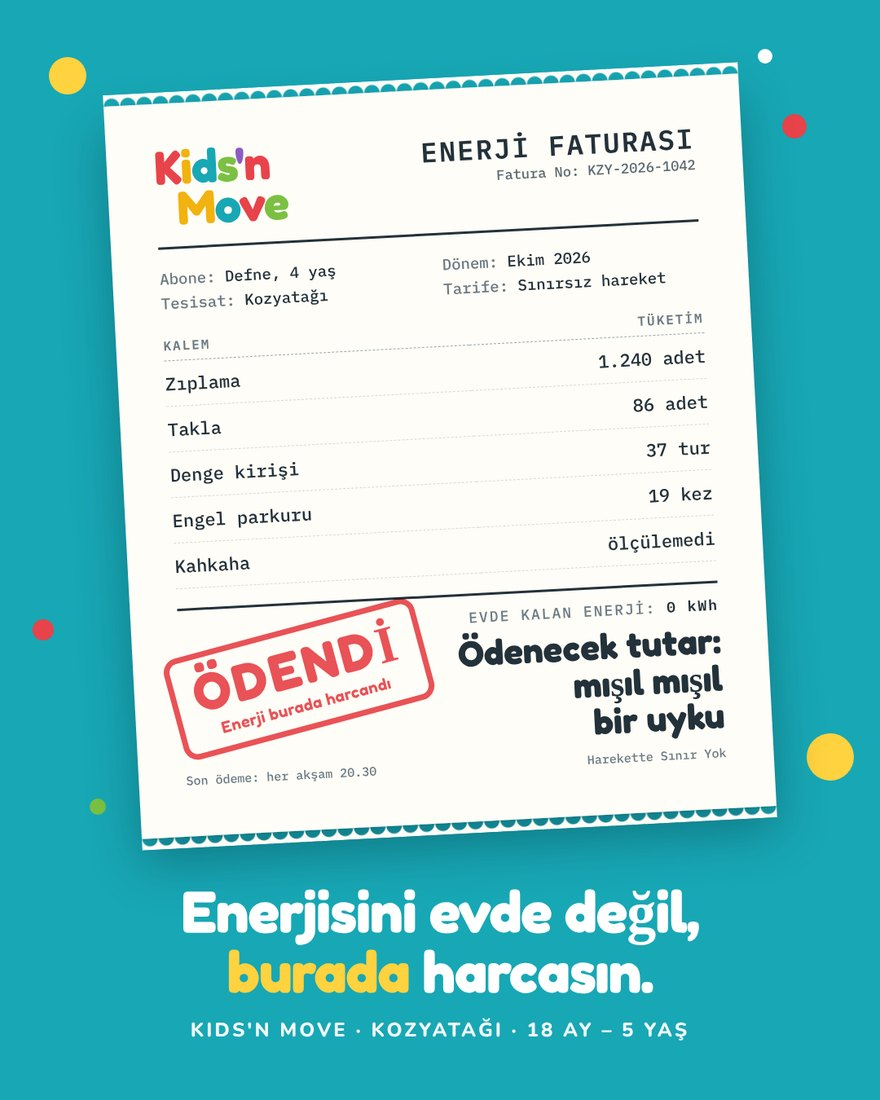
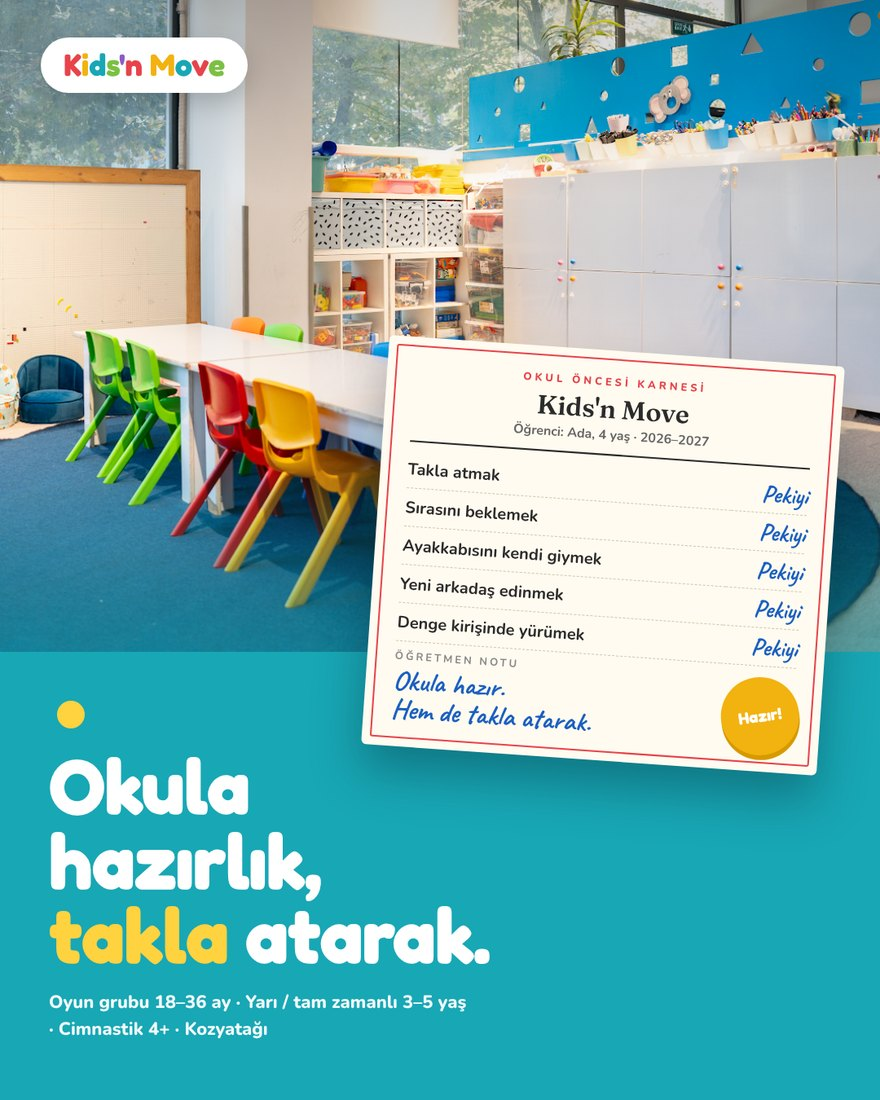
Vakalar yenilendi: markaların kendi fotoğraflarıyla altı yeni iş
Claude-Session: https://claude.ai/code/session_01BKzsWLjaf8MYVzkn7j6h9L

diff --git a/index.html b/index.html
@@ -370,6 +370,7 @@ dialog .alt{color:#fff;margin-top:12px;font-size:15px}
 
 </head>
 <body>
+
 <div class="bant">
   <svg class="halka" viewBox="0 0 200 200" aria-hidden="true"><g fill="none" stroke="#FFFFFF" stroke-width="5"><circle cx="100" cy="100" r="22"/><circle cx="100" cy="100" r="48"/><circle cx="100" cy="100" r="74"/><circle cx="100" cy="100" r="97"/></g></svg>
   <div class="ic">
@@ -397,7 +398,7 @@ dialog .alt{color:#fff;margin-top:12px;font-size:15px}
 
 <div class="markalar"><div class="ic"><span class="etiket">Birlikte çalıştığımız markalar</span><ul><li>Keyfhane</li><li>Ms Neilos Coffees</li><li>Tiesto Coffee</li><li>Hacı Caferoğlu</li><li>Otomer</li><li>Uğur Hazır Yemek</li><li>Tomara Catering</li><li>Armet Ambalaj</li><li>Alex Gece Dönercisi</li><li>Kids'n Move</li><li>Demlesene</li></ul></div></div>
 <main class="ic">
-  <section id="fark">
+  <section lang="tr" id="fark">
     <div class="bas">
       <div class="etiket">Aynı brif, iki ajans</div>
       <h2>Farkı görmek için <i>kaydırın.</i></h2>
@@ -421,99 +422,99 @@ dialog .alt{color:#fff;margin-top:12px;font-size:15px}
   </section>
 
 
-  <section id="vakalar">
+  <section lang="tr" id="vakalar">
     <div class="bas">
       <div class="etiket">Vaka çalışmaları</div>
       <h2>Her markanın <i>kendi</i> dili var.</h2>
-      <p>Önce markayı inceliyoruz: rengini, semtini, müşterisini, gününü. Sonra o markadan başkasına ait olamayacak tek bir fikir buluyoruz. Fikir bir posta değil, dükkândan pakete her yere taşınıyor.</p>
+      <p>Önce markayı inceliyoruz: rengini, semtini, müşterisini, gününü. Sonra markanın kendi fotoğraflarıyla, ondan başkasına ait olamayacak tek bir fikir kuruyoruz. Fikir bir posta değil, dükkândan pakete her yere taşınıyor.</p>
     </div>
     <article class="vaka" style="--vb:#18A7B5;--vf:#fff;--va:#FFD23F;--vm:rgba(255,255,255,.88)">
       <span class="v-no" aria-hidden="true">01</span>
       <div class="v-tel"><div class="v-ekran">
         <div class="v-ust"><i></i>kidsnmove<span>•••</span></div>
-        <button type="button" data-buyut="is/kidsnmove.jpg" data-alt="Kids'n Move için enerji faturası: zıplama 1.240 adet, takla 86 adet, evde kalan enerji 0 kWh, ödenecek tutar mışıl mışıl bir uyku"><img src="is/kidsnmove.jpg" alt="Kids'n Move için enerji faturası: zıplama 1.240 adet, takla 86 adet, evde kalan enerji 0 kWh, ödenecek tutar mışıl mışıl bir uyku" width="880" height="1100" loading="lazy"></button>
+        <button type="button" data-buyut="is/kidsnmove.jpg" data-alt="Kids'n Move sınıfının gerçek fotoğrafı üzerinde okul öncesi karnesi: takla atmak, sırasını beklemek, ayakkabısını kendi giymek, hepsi pekiyi. Öğretmen notu: okula hazır, hem de takla atarak."><img src="is/kidsnmove.jpg" alt="Kids'n Move sınıfının gerçek fotoğrafı üzerinde okul öncesi karnesi: takla atmak, sırasını beklemek, ayakkabısını kendi giymek, hepsi pekiyi. Öğretmen notu: okula hazır, hem de takla atarak." width="880" height="1100" loading="lazy"></button>
         <div class="v-alt"><svg viewBox="0 0 24 24"><path d="M12 21s-7-4.4-9.3-9A5.2 5.2 0 0 1 12 6.3 5.2 5.2 0 0 1 21.3 12C19 16.6 12 21 12 21z"/></svg><svg viewBox="0 0 24 24"><path d="M21 12a8.5 8.5 0 0 1-12.6 7.4L3 21l1.6-5.2A8.5 8.5 0 1 1 21 12z"/></svg><svg viewBox="0 0 24 24"><path d="M22 3 2 10.5l8 3.5 3.5 8L22 3z"/></svg><b>Kaydet</b></div>
       </div></div>
       <div class="v-metin">
-        <div class="v-marka">Kids'n Move · Kozyatağı · çocuk hareket ve cimnastik okulu</div>
-        <h3>Enerjisini evde değil, <em>burada</em> harcasın.</h3>
-        <dl class="v-dl"><div><dt>Durum</dt><dd>Ebeveyn okul seçerken güven ve gelişim arıyor. Çocuk tarafında tek bir gerçek var: o enerji bir yerde harcanacak.</dd></div><div><dt>Fikir</dt><dd>Ev faturası diliyle bir enerji faturası: zıplama, takla, denge kirişi kalem kalem. Evde kalan enerji 0 kWh, ödenecek tutar mışıl mışıl bir uyku. Markanın renkli logosu ve “Harekette Sınır Yok” sözüyle.</dd></div><div><dt>Neden işe yarar</dt><dd>Her ebeveynin yaşadığı akşam saatini tek bakışta anlatıyor. Veli gruplarında elden ele gönderilecek türden; 2026’da Instagram’ın en çok ödüllendirdiği şey de bu.</dd></div></dl>
-        <div class="v-tas" aria-label="Bu fikrin taşındığı yerler"><span>Instagram postu</span><span>Dönem sonu veli karnesi</span><span>Kayıt broşürü</span><span>Girişte “fatura gişesi” panosu</span><span>Aylık fatura Reels’i</span></div>
+        <div class="v-marka">Kids'n Move · Kozyatağı · okul öncesi ve hareket okulu</div>
+        <h3>Okula hazırlık, <em>takla atarak.</em></h3>
+        <dl class="v-dl"><div><dt>Durum</dt><dd>Veli okul öncesi seçerken tek şey soruyor: çocuğum okula hazır olacak mı? Kids'n Move'un cevabı hareket: oyun grubu, yarım ve tam gün sınıflar, cimnastik.</dd></div><div><dt>Fikir</dt><dd>Markanın kendi sınıfının fotoğrafı üstüne bir okul öncesi karnesi. Takla atmak, sırasını beklemek, ayakkabısını kendi giymek, yeni arkadaş edinmek; hepsi “Pekiyi”. Öğretmen notu: “Okula hazır. Hem de takla atarak.”</dd></div><div><dt>Neden işe yarar</dt><dd>Hareketi ebeveynin asıl derdine, okul hazırlığına bağlıyor. Karne herkesin tanıdığı bir belge; veli grubunda paylaşılır, kayıt döneminde aynı karne velinin eline gerçek kâğıt olarak verilir.</dd></div></dl>
+        <div class="v-tas" aria-label="Bu fikrin taşındığı yerler"><span>Kayıt dönemi postu</span><span>Dönem sonu gerçek veli karnesi</span><span>Kayıt broşürü</span><span>Okul girişi panosu</span><span>Veli WhatsApp duyurusu</span></div>
       </div>
     </article>
     <article class="vaka ters" style="--vb:#0E1B3D;--vf:#fff;--va:#FF4A4A;--vm:rgba(255,255,255,.75)">
       <span class="v-no" aria-hidden="true">02</span>
       <div class="v-tel"><div class="v-ekran">
         <div class="v-ust"><i></i>tiestocoffees<span>•••</span></div>
-        <button type="button" data-buyut="is/tiesto.jpg" data-alt="Tiesto Coffee için plak kapağı: Kahvenin en güzel hali, tracklist Espresso Original Mix, Taş Değirmen Slow Grind"><img src="is/tiesto.jpg" alt="Tiesto Coffee için plak kapağı: Kahvenin en güzel hali, tracklist Espresso Original Mix, Taş Değirmen Slow Grind" width="880" height="1100" loading="lazy"></button>
+        <button type="button" data-buyut="is/tiesto.jpg" data-alt="Tiesto Coffee'nin gece çekilmiş gerçek cephesi ve parmak izi logosu; önünde bir telefonda Tiesto albümü, mekândan gerçek fotoğraflarla dolu. Başlık: Beylikdüzü'nün galerisinde parmak izimiz var."><img src="is/tiesto.jpg" alt="Tiesto Coffee'nin gece çekilmiş gerçek cephesi ve parmak izi logosu; önünde bir telefonda Tiesto albümü, mekândan gerçek fotoğraflarla dolu. Başlık: Beylikdüzü'nün galerisinde parmak izimiz var." width="880" height="1100" loading="lazy"></button>
         <div class="v-alt"><svg viewBox="0 0 24 24"><path d="M12 21s-7-4.4-9.3-9A5.2 5.2 0 0 1 12 6.3 5.2 5.2 0 0 1 21.3 12C19 16.6 12 21 12 21z"/></svg><svg viewBox="0 0 24 24"><path d="M21 12a8.5 8.5 0 0 1-12.6 7.4L3 21l1.6-5.2A8.5 8.5 0 1 1 21 12z"/></svg><svg viewBox="0 0 24 24"><path d="M22 3 2 10.5l8 3.5 3.5 8L22 3z"/></svg><b>Kaydet</b></div>
       </div></div>
       <div class="v-metin">
-        <div class="v-marka">Tiesto Coffee · Beylikdüzü</div>
-        <h3>Bu sabahın <em>setlisti</em> hazır.</h3>
-        <dl class="v-dl"><div><dt>Durum</dt><dd>Markanın adı dünyaca ünlü bir DJ’i çağrıştırıyor. Saklamak yerine sahneye çıkarmak gerekiyordu.</dd></div><div><dt>Fikir</dt><dd>Kahve menüsü bir plak kapağına döndü: Espresso (Original Mix), Taş Değirmen (Slow Grind), Şömine Başı (Extended). Kapak markanın lacivert-kırmızısı ve parmak izi deseniyle, “Live at Beylikdüzü”.</dd></div><div><dt>Neden işe yarar</dt><dd>İsimle gelen merak bir gülümsemeye dönüşüyor, menü ezberlenir hale geliyor. Marka kendi tuhaflığını sahipleniyor.</dd></div></dl>
-        <div class="v-tas" aria-label="Bu fikrin taşındığı yerler"><span>Tracklist menü kartı</span><span>Bardakta Side A / Side B</span><span>Haftalık setlist story serisi</span><span>Mağazada plak duvarı</span></div>
+        <div class="v-marka">Tiesto Coffee · Beylikdüzü · “Fingerprint on Quality”</div>
+        <h3>Beylikdüzü’nün galerisinde <em>parmak izimiz</em> var.</h3>
+        <dl class="v-dl"><div><dt>Durum</dt><dd>Tiesto'nun logosu bir parmak izi, sözü “Fingerprint on Quality”. Mekân öyle bir yer ki misafir kahvesini içmeden önce fotoğrafını çekiyor.</dd></div><div><dt>Fikir</dt><dd>Markanın kendi cephesi, gece ışıkları ve parmak izi tabelasıyla. Önünde bir telefon galerisi: “Tiesto” albümü, mekândan gerçek karelerle dolu. “Bir fotoğraf daha kaydedildi.”</dd></div><div><dt>Neden işe yarar</dt><dd>Logodaki parmak izini müşterinin davranışına bağlıyor: her bardak, her tabak, bir galeriye geçiyor. Müşterinin çektiği fotoğrafı reklama, reklamı da yeni fotoğraf çekme davetine çeviriyor.</dd></div></dl>
+        <div class="v-tas" aria-label="Bu fikrin taşındığı yerler"><span>Instagram postu</span><span>“Galerinden Tiesto” paylaşım serisi</span><span>Bardakta parmak izi baskısı</span><span>Masada fotoğraf köşesi kartı</span></div>
       </div>
     </article>
     <article class="vaka" style="--vb:#E6F5F4;--vf:#16232B;--va:#1C9C97;--vm:#3E525B">
       <span class="v-no" aria-hidden="true">03</span>
       <div class="v-tel"><div class="v-ekran">
         <div class="v-ust"><i></i>msneiloscoffees<span>•••</span></div>
-        <button type="button" data-buyut="is/neilos.jpg" data-alt="Ms Neilos için istasyon tabelası: Espresso hattı E1, Soğuk hat C2, Tatlı hattı T3, ilk sefer 09.00 son sefer 02.00"><img src="is/neilos.jpg" alt="Ms Neilos için istasyon tabelası: Espresso hattı E1, Soğuk hat C2, Tatlı hattı T3, ilk sefer 09.00 son sefer 02.00" width="880" height="1100" loading="lazy"></button>
+        <button type="button" data-buyut="is/neilos.jpg" data-alt="Ms Neilos'un turkuaz baskılı bardağında gerçek bir buzlu latte fotoğrafı ve yanında müze etiketi: Eser no 01, Iced Latte, ziyaret saatleri her gün 09.00–02.00. Başlık: Pendik'in kalıcı koleksiyonu."><img src="is/neilos.jpg" alt="Ms Neilos'un turkuaz baskılı bardağında gerçek bir buzlu latte fotoğrafı ve yanında müze etiketi: Eser no 01, Iced Latte, ziyaret saatleri her gün 09.00–02.00. Başlık: Pendik'in kalıcı koleksiyonu." width="880" height="1100" loading="lazy"></button>
         <div class="v-alt"><svg viewBox="0 0 24 24"><path d="M12 21s-7-4.4-9.3-9A5.2 5.2 0 0 1 12 6.3 5.2 5.2 0 0 1 21.3 12C19 16.6 12 21 12 21z"/></svg><svg viewBox="0 0 24 24"><path d="M21 12a8.5 8.5 0 0 1-12.6 7.4L3 21l1.6-5.2A8.5 8.5 0 1 1 21 12z"/></svg><svg viewBox="0 0 24 24"><path d="M22 3 2 10.5l8 3.5 3.5 8L22 3z"/></svg><b>Kaydet</b></div>
       </div></div>
       <div class="v-metin">
         <div class="v-marka">Ms Neilos Coffees · Pendik · 09.00–02.00</div>
-        <h3>Pendik’te herkes bir yerde <em>aktarma</em> yapar.</h3>
-        <dl class="v-dl"><div><dt>Durum</dt><dd>Pendik bir aktarma semti: Marmaray, metro, otobüs. Herkes bir yerden bir yere geçiyor.</dd></div><div><dt>Fikir</dt><dd>Kafeyi bir istasyon gibi tabelaladık: Espresso hattı E1, Soğuk hat C2, Tatlı hattı T3. İlk sefer 09.00, son sefer 02.00. Turkuaz “N” bir metro durağı işaretine dönüştü.</dd></div><div><dt>Neden işe yarar</dt><dd>Semtin günlük hayatına oturuyor; yol tarifi bile reklama dönüşüyor. Gece 2’ye kadar açık olmak, “son sefer” diye söylenince akılda kalıyor.</dd></div></dl>
-        <div class="v-tas" aria-label="Bu fikrin taşındığı yerler"><span>Cam giydirme istasyon tabelası</span><span>Bardakta hat rozetleri</span><span>Neilos kart: 10 sefer 1 bedava</span><span>Durak çıkışı yön afişi</span></div>
+        <h3>Pendik’in <em>kalıcı koleksiyonu.</em></h3>
+        <dl class="v-dl"><div><dt>Durum</dt><dd>Üçüncü nesil kahve dükkânı; turkuaz baskılı bardakları ve özenli sunumu kendi başına bir vitrin. Ama özen, fotoğrafta “bir kafe daha” gibi kalabiliyor.</dd></div><div><dt>Fikir</dt><dd>Her içeceği bir müze eseri gibi sergiledik. Gerçek buzlu latte fotoğrafının yanında bir müze etiketi: “Eser no. 01, Iced Latte. Espresso, soğuk süt ve buz; turkuaz baskılı bardak üzerine.” Ziyaret saatleri 09.00–02.00, salon Erol Kaya Caddesi. “Bu eserde dokunmak ve tatmak serbesttir.”</dd></div><div><dt>Neden işe yarar</dt><dd>Üçüncü nesil kahvenin özenini tek bakışta anlatıyor. Her yeni içecek koleksiyona yeni bir eser olarak katılır; seri kendiliğinden büyür, müdavim “hepsini gördüm” der.</dd></div></dl>
+        <div class="v-tas" aria-label="Bu fikrin taşındığı yerler"><span>Eser serisi postları</span><span>Kasada müze etiketi menü</span><span>Bardakta eser numarası</span><span>“Yeni eser” story duyurusu</span></div>
       </div>
     </article>
     <article class="vaka ters" style="--vb:#F4EEE4;--vf:#2A1A12;--va:#D7262D;--vm:#6B5444">
       <span class="v-no" aria-hidden="true">04</span>
       <div class="v-tel"><div class="v-ekran">
         <div class="v-ust"><i></i>demlesene<span>•••</span></div>
-        <button type="button" data-buyut="is/demlesene.jpg" data-alt="Demlesene için kahve pasaportu: Guatemala, El Salvador, Kolombiya ve Brezilya vize damgaları"><img src="is/demlesene.jpg" alt="Demlesene için kahve pasaportu: Guatemala, El Salvador, Kolombiya ve Brezilya vize damgaları" width="880" height="1100" loading="lazy"></button>
+        <button type="button" data-buyut="is/demlesene.jpg" data-alt="Demlesene'nin gerçek Espresso No.1–No.4 paketleri, boy çizgili bir teşhis duvarında yan yana. Başlık: Dün gece uykunu kaçıran hangisiydi?"><img src="is/demlesene.jpg" alt="Demlesene'nin gerçek Espresso No.1–No.4 paketleri, boy çizgili bir teşhis duvarında yan yana. Başlık: Dün gece uykunu kaçıran hangisiydi?" width="880" height="1100" loading="lazy"></button>
         <div class="v-alt"><svg viewBox="0 0 24 24"><path d="M12 21s-7-4.4-9.3-9A5.2 5.2 0 0 1 12 6.3 5.2 5.2 0 0 1 21.3 12C19 16.6 12 21 12 21z"/></svg><svg viewBox="0 0 24 24"><path d="M21 12a8.5 8.5 0 0 1-12.6 7.4L3 21l1.6-5.2A8.5 8.5 0 1 1 21 12z"/></svg><svg viewBox="0 0 24 24"><path d="M22 3 2 10.5l8 3.5 3.5 8L22 3z"/></svg><b>Kaydet</b></div>
       </div></div>
       <div class="v-metin">
         <div class="v-marka">Demlesene.com · online nitelikli kahve</div>
-        <h3>Dört ülke, tek <em>kapı</em>: senin kapın.</h3>
-        <dl class="v-dl"><div><dt>Durum</dt><dd>Dört farklı ülkeden tek kökenli kahveler var, ama internette hepsi aynı beyaz paket gibi görünüyor.</dd></div><div><dt>Fikir</dt><dd>Bir kahve pasaportu: her köken bir vize damgası. Guatemala Jaguar, El Salvador La Majada, Kolombiya Supremo, Brezilya Doce Diamantina. En altta kırmızı damga: vize gerekmez, demlesene.com, 7/24.</dd></div><div><dt>Neden işe yarar</dt><dd>Tadım notlarını macera diline çeviriyor ve “hepsini toplamalıyım” isteği doğuruyor. Tek paket yerine dörtlü set satıyor.</dd></div></dl>
-        <div class="v-tas" aria-label="Bu fikrin taşındığı yerler"><span>Paketle gelen pasaport kitapçığı</span><span>Her siparişte yeni damga</span><span>Dört ülke tadım seti</span><span>“Yeni vize geldi” e-postası</span></div>
+        <h3>Dün gece uykunu <em>kaçıran</em> hangisiydi?</h3>
+        <dl class="v-dl"><div><dt>Durum</dt><dd>Dört espresso harmanı var, internette dördü de birbirine benzeyen paketler gibi duruyor. Müşteri farkı göremeyince en ucuzunu seçiyor.</dd></div><div><dt>Fikir</dt><dd>Markanın gerçek paketleri, polis teşhis sırasına dizildi: Espresso No.1'den No.4'e, arkada boy çizgileri, kırmızı etikette “demlesene.com · teşhis”. Soru net: dün gece uykunu kaçıran hangisiydi?</dd></div><div><dt>Neden işe yarar</dt><dd>Kafeinin bilinen etkisini esprili bir suça çeviriyor; paketler kendiliğinden karakter kazanıyor. Yorumlarda herkes “sanığını” seçer, dört harmanı tek tek tanıtmak için hazır bir seri doğar.</dd></div></dl>
+        <div class="v-tas" aria-label="Bu fikrin taşındığı yerler"><span>Instagram postu</span><span>Her harmana bir “sabıka kaydı” postu</span><span>Dörtlü deneme seti</span><span>Siparişle gelen teşhis kartı</span></div>
       </div>
     </article>
     <article class="vaka" style="--vb:#0F1F3A;--vf:#fff;--va:#C9A15B;--vm:rgba(255,255,255,.74)">
       <span class="v-no" aria-hidden="true">05</span>
       <div class="v-tel"><div class="v-ekran">
         <div class="v-ust"><i></i>tomarasofrasi_catering<span>•••</span></div>
-        <button type="button" data-buyut="is/tomara.jpg" data-alt="Tomara Catering için ofis takvimi: toplantılara katılım düşük, öğle yemeğine 148 kişiden 148 kişi kabul demiş"><img src="is/tomara.jpg" alt="Tomara Catering için ofis takvimi: toplantılara katılım düşük, öğle yemeğine 148 kişiden 148 kişi kabul demiş" width="880" height="1100" loading="lazy"></button>
+        <button type="button" data-buyut="is/tomara.jpg" data-alt="Tomara Catering'in gerçek yemek tepsisi fotoğrafı ve üzerinde bir takvim daveti: Öğle yemeği, 12.00–13.00, yemekhane, mercimek çorbası, etli patates, şehriyeli pilav. 148 kişiden 148 kişi kabul etti."><img src="is/tomara.jpg" alt="Tomara Catering'in gerçek yemek tepsisi fotoğrafı ve üzerinde bir takvim daveti: Öğle yemeği, 12.00–13.00, yemekhane, mercimek çorbası, etli patates, şehriyeli pilav. 148 kişiden 148 kişi kabul etti." width="880" height="1100" loading="lazy"></button>
         <div class="v-alt"><svg viewBox="0 0 24 24"><path d="M12 21s-7-4.4-9.3-9A5.2 5.2 0 0 1 12 6.3 5.2 5.2 0 0 1 21.3 12C19 16.6 12 21 12 21z"/></svg><svg viewBox="0 0 24 24"><path d="M21 12a8.5 8.5 0 0 1-12.6 7.4L3 21l1.6-5.2A8.5 8.5 0 1 1 21 12z"/></svg><svg viewBox="0 0 24 24"><path d="M22 3 2 10.5l8 3.5 3.5 8L22 3z"/></svg><b>Kaydet</b></div>
       </div></div>
       <div class="v-metin">
         <div class="v-marka">Tomara Catering · Tuzla · 2015’ten beri kurumsal yemek</div>
         <h3>Herkesin kabul ettiği <em>tek toplantı.</em></h3>
-        <dl class="v-dl"><div><dt>Durum</dt><dd>Kurumsal yemekte kararı İK ve satın alma veriyor. Onların dünyası toplantı takvimi.</dd></div><div><dt>Fikir</dt><dd>Bir ofis takvimi: bütün toplantılarda katılım düşük, öğle yemeğine 148 kişiden 148’i “kabul” demiş. Tomara’nın lacivert-altın kimliği ve servis kapağı simgesiyle.</dd></div><div><dt>Neden işe yarar</dt><dd>Alıcıya kendi ekranından konuşuyor. İK yöneticilerinin LinkedIn’de paylaşacağı, gülümseterek ikna eden türden bir B2B işi.</dd></div></dl>
-        <div class="v-tas" aria-label="Bu fikrin taşındığı yerler"><span>LinkedIn kampanyası</span><span>Teklif dosyası kapağı</span><span>Yemekhane panosu</span><span>Takvim daveti biçiminde e-posta</span></div>
+        <dl class="v-dl"><div><dt>Durum</dt><dd>Kurumsal yemekte kararı İK ve satın alma veriyor. Onların günü toplantı davetleriyle geçiyor, çoğuna da isteksizce katılıyorlar.</dd></div><div><dt>Fikir</dt><dd>Tomara'nın gerçek yemek tepsisi fotoğrafının üstünde bir takvim daveti: “Öğle yemeği · 12.00–13.00 · Yemekhane. Mercimek çorbası, etli patates, şehriyeli pilav.” Altında: ✓ Kabul edildi, 148 / 148 kişi.</dd></div><div><dt>Neden işe yarar</dt><dd>Alıcıya kendi ekranının diliyle konuşuyor ve yemeği gösteriyor. İK yöneticisinin LinkedIn'de paylaşacağı türden bir B2B işi; gülümsetirken teklif istemeye götürüyor.</dd></div></dl>
+        <div class="v-tas" aria-label="Bu fikrin taşındığı yerler"><span>LinkedIn kampanyası</span><span>Teklif dosyası kapağı</span><span>Takvim daveti biçiminde e-posta</span><span>Yemekhane menü panosu</span></div>
       </div>
     </article>
     <article class="vaka ters" style="--vb:#0B0A12;--vf:#FFF6EA;--va:#FFB347;--vm:rgba(255,246,234,.74)">
       <span class="v-no" aria-hidden="true">06</span>
       <div class="v-tel"><div class="v-ekran">
         <div class="v-ust"><i></i>alexgecedonercisi<span>•••</span></div>
-        <button type="button" data-buyut="is/alex.jpg" data-alt="Alex Gece Dönercisi için nöbetçi eczane levhası biçiminde post: Bu gece nöbetçi dönerci, nöbet saati 17.00–02.00"><img src="is/alex.jpg" alt="Alex Gece Dönercisi için nöbetçi eczane levhası biçiminde post: Bu gece nöbetçi dönerci, nöbet saati 17.00–02.00" width="880" height="1100" loading="lazy"></button>
+        <button type="button" data-buyut="is/alex.jpg" data-alt="Alex Gece Dönercisi'nin gerçek döner fotoğrafı gece gökyüzünde ay gibi parlıyor. Altında döner evreleri: dolunay, şişkin ay, yarım ay, hilal. Başlık: Bu gece gökyüzünde dolunay var."><img src="is/alex.jpg" alt="Alex Gece Dönercisi'nin gerçek döner fotoğrafı gece gökyüzünde ay gibi parlıyor. Altında döner evreleri: dolunay, şişkin ay, yarım ay, hilal. Başlık: Bu gece gökyüzünde dolunay var." width="880" height="1100" loading="lazy"></button>
         <div class="v-alt"><svg viewBox="0 0 24 24"><path d="M12 21s-7-4.4-9.3-9A5.2 5.2 0 0 1 12 6.3 5.2 5.2 0 0 1 21.3 12C19 16.6 12 21 12 21z"/></svg><svg viewBox="0 0 24 24"><path d="M21 12a8.5 8.5 0 0 1-12.6 7.4L3 21l1.6-5.2A8.5 8.5 0 1 1 21 12z"/></svg><svg viewBox="0 0 24 24"><path d="M22 3 2 10.5l8 3.5 3.5 8L22 3z"/></svg><b>Kaydet</b></div>
       </div></div>
       <div class="v-metin">
-        <div class="v-marka">Alex Gece Dönercisi · Kartal Topselvi · 02.00’ye kadar</div>
-        <h3>Gece acıkanların <em>nöbetçisi.</em></h3>
-        <dl class="v-dl"><div><dt>Durum</dt><dd>Gece döner arayan, aklına ilk geleni seçiyor. Mesele en iyi olmak değil, akla ilk gelen olmak.</dd></div><div><dt>Fikir</dt><dd>Herkesin tanıdığı nöbetçi eczane levhası: “Bu gece nöbetçi dönerci.” Nöbet saati 17.00–02.00, ikram: çay.</dd></div><div><dt>Neden işe yarar</dt><dd>Tanıdık işaret tek saniyede okunuyor. “Nöbetçi” kelimesi gece açık olmayı bir hizmete, bir güvenceye çeviriyor.</dd></div></dl>
-        <div class="v-tas" aria-label="Bu fikrin taşındığı yerler"><span>Dükkân önü ışıklı levha</span><span>Trendyol Go mağaza görseli</span><span>Gece 23.00 story’si</span><span>Paket üstü sticker</span></div>
+        <div class="v-marka">Alex Gece Dönercisi · Kartal</div>
+        <h3>Bu gece gökyüzünde <em>dolunay</em> var.</h3>
+        <dl class="v-dl"><div><dt>Durum</dt><dd>Adı üstünde gece dönercisi. Gece acıkan kişi aklına ilk geleni seçer; Alex'in tek işi o anda akla gelmek.</dd></div><div><dt>Fikir</dt><dd>Markanın kendi döner fotoğrafı, gece gökyüzünde dolunay gibi parlıyor. Altında bir ay takvimi gibi döner evreleri: dolunay (ocak yeni yandı), şişkin ay, yarım ay, hilal (son dilimler). Tabelanın sarısı neon ışığa döndü.</dd></div><div><dt>Neden işe yarar</dt><dd>Geceyi ve döneri tek görüntüde birleştiriyor. “Hilale kalmadan gelin” cümlesi aciliyeti esprisiyle kuruyor; her gece aynı seriden yeni bir story çıkar: “Şu an yarım ay.”</dd></div></dl>
+        <div class="v-tas" aria-label="Bu fikrin taşındığı yerler"><span>Instagram postu</span><span>Gece boyu “döner evresi” story'leri</span><span>Dükkân camında neon</span><span>Paket servis uygulaması görseli</span></div>
       </div>
     </article>
   </section>
 
-  <section id="isler">
+  <section lang="tr" id="isler">
     <div class="bas">
       <div class="etiket">Daha fazla iş</div>
       <h2>Her işin <i>tek</i> bir fikri var.</h2>
@@ -529,11 +530,11 @@ dialog .alt{color:#fff;margin-top:12px;font-size:15px}
     </div>
     <div class="isler" id="isler-liste">
       <article class="is" data-t="post">
-        <button class="medya" type="button" data-buyut="is/rapor.jpg" data-alt="Keyfhane · İstirahat Raporu"><img src="is/rapor.jpg" alt="Keyfhane istirahat raporu postu" width="880" height="1100" loading="lazy"><span class="tur">Kafe · Post</span></button>
+        <button class="medya" type="button" data-buyut="is/rapor.jpg" data-alt="Alex Gece Dönercisi'nin gerçek döner fotoğrafı gece gökyüzünde ay gibi parlıyor. Altında döner evreleri: dolunay, şişkin ay, yarım ay, hilal. Başlık: Bu gece gökyüzünde dolunay var."><img src="is/rapor.jpg" alt="Keyfhane istirahat raporu postu" width="880" height="1100" loading="lazy"><span class="tur">Kafe · Post</span></button>
         <h3>İstirahat Raporu</h3><p>Keyfhane için. Teşhis: akut keyifsizlik. Tedavi: iki demli çay, bir dilim tatlı.</p>
       </article>
       <article class="is" data-t="teklif">
-        <button class="medya" type="button" data-buyut="is/caferoglu.jpg" data-alt="Hatır Senedi"><img src="is/caferoglu.jpg" alt="Senet biçiminde kurukahveci postu: Hatır senedi, vade kırk yıl" width="880" height="1100" loading="lazy"><span class="tur t">Kurukahveci</span></button>
+        <button class="medya" type="button" data-buyut="is/caferoglu.jpg" data-alt="Alex Gece Dönercisi'nin gerçek döner fotoğrafı gece gökyüzünde ay gibi parlıyor. Altında döner evreleri: dolunay, şişkin ay, yarım ay, hilal. Başlık: Bu gece gökyüzünde dolunay var."><img src="is/caferoglu.jpg" alt="Senet biçiminde kurukahveci postu: Hatır senedi, vade kırk yıl" width="880" height="1100" loading="lazy"><span class="tur t">Kurukahveci</span></button>
         <h3>Hatır Senedi</h3><p>Kurukahveci Hacı Caferoğlu için. Bir fincan dibek kahvesinin kırk yıl hatırı, senede bağlandı.</p>
       </article>
       <article class="is" data-t="reels">
@@ -541,38 +542,38 @@ dialog .alt{color:#fff;margin-top:12px;font-size:15px}
         <h3>Mesai Bitti</h3><p>Keyfhane için 8 saniyelik Reels. Saat 18.01, üç bildirim. Hangisine cevap vereceğin belli.</p>
       </article>
       <article class="is" data-t="konsept">
-        <button class="medya" type="button" data-buyut="is/berber.jpg" data-alt="Konsept · Usta Makas"><img src="is/berber.jpg" alt="Sıra numaratörü biçiminde berber postu: Sıradaki sen" width="880" height="1100" loading="lazy"><span class="tur k">Konsept · Berber</span></button>
+        <button class="medya" type="button" data-buyut="is/berber.jpg" data-alt="Alex Gece Dönercisi'nin gerçek döner fotoğrafı gece gökyüzünde ay gibi parlıyor. Altında döner evreleri: dolunay, şişkin ay, yarım ay, hilal. Başlık: Bu gece gökyüzünde dolunay var."><img src="is/berber.jpg" alt="Sıra numaratörü biçiminde berber postu: Sıradaki sen" width="880" height="1100" loading="lazy"><span class="tur k">Konsept · Berber</span></button>
         <h3>Sıradaki: Sen</h3><p>Berber için sıra numaratörü. Randevulu müşteri hiç beklemez, tek mesaj bu.</p>
       </article>
       <article class="is" data-t="teklif">
-        <button class="medya" type="button" data-buyut="is/ugur.jpg" data-alt="Dikkat: verim artışı"><img src="is/ugur.jpg" alt="İş güvenliği levhası biçiminde toplu yemek postu: Dikkat, öğle yemeğinden sonra verim artışı" width="880" height="1100" loading="lazy"><span class="tur t">Toplu yemek</span></button>
+        <button class="medya" type="button" data-buyut="is/ugur.jpg" data-alt="Alex Gece Dönercisi'nin gerçek döner fotoğrafı gece gökyüzünde ay gibi parlıyor. Altında döner evreleri: dolunay, şişkin ay, yarım ay, hilal. Başlık: Bu gece gökyüzünde dolunay var."><img src="is/ugur.jpg" alt="İş güvenliği levhası biçiminde toplu yemek postu: Dikkat, öğle yemeğinden sonra verim artışı" width="880" height="1100" loading="lazy"><span class="tur t">Toplu yemek</span></button>
         <h3>Dikkat: verim artışı</h3><p>Fabrikalara toplu yemek veren Uğur Hazır Yemek için. İş güvenliği levhası diliyle: öğle yemeğinden sonra verim artışı yaşanabilir.</p>
       </article>
       <article class="is" data-t="teklif">
-        <button class="medya" type="button" data-buyut="is/otomer.jpg" data-alt="34 ARA 000"><img src="is/otomer.jpg" alt="Plaka biçiminde galericiler sitesi postu: 34 ARA 000, aramayı burada bitir" width="880" height="1100" loading="lazy"><span class="tur t">Galericiler sitesi</span></button>
+        <button class="medya" type="button" data-buyut="is/otomer.jpg" data-alt="Alex Gece Dönercisi'nin gerçek döner fotoğrafı gece gökyüzünde ay gibi parlıyor. Altında döner evreleri: dolunay, şişkin ay, yarım ay, hilal. Başlık: Bu gece gökyüzünde dolunay var."><img src="is/otomer.jpg" alt="Plaka biçiminde galericiler sitesi postu: 34 ARA 000, aramayı burada bitir" width="880" height="1100" loading="lazy"><span class="tur t">Galericiler sitesi</span></button>
         <h3>34 ARA 000</h3><p>Sancaktepe'deki Otomer Galericiler Sitesi için. Plakada tek kelime: ara. Altında tek cümle: aramayı burada bitir.</p>
       </article>
       <article class="is" data-t="konsept">
-        <button class="medya" type="button" data-buyut="is/firin.jpg" data-alt="Konsept · Fırın Sabah"><img src="is/firin.jpg" alt="Kargo takip ekranı biçiminde fırın postu: Simidin yola çıktı" width="880" height="1100" loading="lazy"><span class="tur k">Konsept · Fırın</span></button>
+        <button class="medya" type="button" data-buyut="is/firin.jpg" data-alt="Alex Gece Dönercisi'nin gerçek döner fotoğrafı gece gökyüzünde ay gibi parlıyor. Altında döner evreleri: dolunay, şişkin ay, yarım ay, hilal. Başlık: Bu gece gökyüzünde dolunay var."><img src="is/firin.jpg" alt="Kargo takip ekranı biçiminde fırın postu: Simidin yola çıktı" width="880" height="1100" loading="lazy"><span class="tur k">Konsept · Fırın</span></button>
         <h3>Simidin yola çıktı</h3><p>Kargo takip ekranı, ama paket sıcak simit. Hamurdan tezgâha her adım saatiyle.</p>
       </article>
       <article class="is" data-t="teklif">
-        <button class="medya" type="button" data-buyut="is/armet.jpg" data-alt="Bu taraf yukarı. Markan da."><img src="is/armet.jpg" alt="Koli üstü işaretleri biçiminde ambalaj postu: Bu taraf yukarı, markan da" width="880" height="1100" loading="lazy"><span class="tur t">Ambalaj</span></button>
+        <button class="medya" type="button" data-buyut="is/armet.jpg" data-alt="Alex Gece Dönercisi'nin gerçek döner fotoğrafı gece gökyüzünde ay gibi parlıyor. Altında döner evreleri: dolunay, şişkin ay, yarım ay, hilal. Başlık: Bu gece gökyüzünde dolunay var."><img src="is/armet.jpg" alt="Koli üstü işaretleri biçiminde ambalaj postu: Bu taraf yukarı, markan da" width="880" height="1100" loading="lazy"><span class="tur t">Ambalaj</span></button>
         <h3>Bu taraf yukarı. Markan da.</h3><p>Armet Ambalaj için. Kolinin üstündeki işaretler marka mesajına dönüştü.</p>
       </article>
       <article class="is" data-t="konsept">
-        <button class="medya" type="button" data-buyut="is/butik.jpg" data-alt="Konsept · Askıda"><img src="is/butik.jpg" alt="Hata penceresi biçiminde butik postu: Dolapta hata tespit edildi" width="880" height="1100" loading="lazy"><span class="tur k">Konsept · Butik</span></button>
+        <button class="medya" type="button" data-buyut="is/butik.jpg" data-alt="Alex Gece Dönercisi'nin gerçek döner fotoğrafı gece gökyüzünde ay gibi parlıyor. Altında döner evreleri: dolunay, şişkin ay, yarım ay, hilal. Başlık: Bu gece gökyüzünde dolunay var."><img src="is/butik.jpg" alt="Hata penceresi biçiminde butik postu: Dolapta hata tespit edildi" width="880" height="1100" loading="lazy"><span class="tur k">Konsept · Butik</span></button>
         <h3>Dolapta hata tespit edildi</h3><p>"Giyecek hiçbir şeyim yok" hatası. Çözüm: eksik tek parça, güncelleme mağazada.</p>
       </article>
       <article class="is genis" data-t="baski">
-        <button class="medya" type="button" data-buyut="is/vitrin.jpg" data-alt="Keyfhane · Dükkân giydirme"><img src="is/vitrin.jpg" alt="Keyfhane için tabela, branda tente ve cam giydirmeli dükkân cephesi" width="1600" height="1000" loading="lazy"><span class="tur">Baskı · Dükkân giydirme</span></button>
+        <button class="medya" type="button" data-buyut="is/vitrin.jpg" data-alt="Alex Gece Dönercisi'nin gerçek döner fotoğrafı gece gökyüzünde ay gibi parlıyor. Altında döner evreleri: dolunay, şişkin ay, yarım ay, hilal. Başlık: Bu gece gökyüzünde dolunay var."><img src="is/vitrin.jpg" alt="Keyfhane için tabela, branda tente ve cam giydirmeli dükkân cephesi" width="1600" height="1000" loading="lazy"><span class="tur">Baskı · Dükkân giydirme</span></button>
         <h3>Postlardaki fikir, vitrinde</h3><p>Keyfhane için tabela, branda tente, cam giydirme ve folyo bant. Instagram'daki "Raporunu al, gel." cümlesi sokakta da aynı.</p>
       </article>
     </div>
     <p class="kunye">"Konsept" etiketli işler kurgusal markalar içindir. Fırın Sabah, Usta Makas ve Askıda gerçek işletmeler değildir.</p>
   </section>
 
-  <section id="biz">
+  <section lang="tr" id="biz">
     <div class="sozluk">
       <div class="sz-sol">
         <div class="etiket" style="color:var(--muted)">Biz kimiz</div>
@@ -609,7 +610,7 @@ dialog .alt{color:#fff;margin-top:12px;font-size:15px}
     </div>
   </section>
 
-  <section id="hizmetler">
+  <section lang="tr" id="hizmetler">
     <div class="bas">
       <div class="etiket">Hizmetler</div>
       <h2>Bir ajansın yaptığı <i>her şey.</i></h2>
@@ -654,7 +655,7 @@ dialog .alt{color:#fff;margin-top:12px;font-size:15px}
     </details>
   </section>
 
-  <section id="baski">
+  <section lang="tr" id="baski">
     <div class="bas">
       <div class="etiket">Baskı ve uygulama</div>
       <h2>Ekranda kalmıyor, <i>sokağa çıkıyor.</i></h2>
@@ -673,7 +674,7 @@ dialog .alt{color:#fff;margin-top:12px;font-size:15px}
     </div>
   </section>
 
-  <section id="fikir-makinesi">
+  <section lang="tr" id="fikir-makinesi">
     <div class="bas">
       <div class="etiket">Fikir makinesi</div>
       <h2>Sektörünüzü seçin, <i>fikir alın.</i></h2>
@@ -690,7 +691,7 @@ dialog .alt{color:#fff;margin-top:12px;font-size:15px}
     </div>
   </section>
 
-  <section id="kontrol">
+  <section lang="tr" id="kontrol">
     <div class="bas">
       <div class="etiket">Ücretsiz kontrol</div>
       <h2>Instagram'ınız <i>kaç puan?</i></h2>
@@ -707,7 +708,7 @@ dialog .alt{color:#fff;margin-top:12px;font-size:15px}
     </div>
   </section>
 
-  <section id="sozumuz">
+  <section lang="tr" id="sozumuz">
     <div class="bas">
       <div class="etiket">Sözümüz</div>
       <h2>Bizimle çalışırken <i>içiniz rahat.</i></h2>
@@ -722,7 +723,7 @@ dialog .alt{color:#fff;margin-top:12px;font-size:15px}
     </div>
   </section>
 
-  <section id="paketler">
+  <section lang="tr" id="paketler">
     <div class="bas">
       <div class="etiket">Paketler</div>
       <h2>İhtiyacınız kadar, <i>fazlası değil.</i></h2>
@@ -749,7 +750,7 @@ dialog .alt{color:#fff;margin-top:12px;font-size:15px}
     </div>
   </section>
 
-  <section id="notlar">
+  <section lang="tr" id="notlar">
     <div class="bas">
       <div class="etiket">Velvele notları · Ekim 2026</div>
       <h2>Bu yıl ne değişti, <i>biz ne yapıyoruz.</i></h2>
@@ -771,7 +772,7 @@ dialog .alt{color:#fff;margin-top:12px;font-size:15px}
     </div>
   </section>
 
-  <section id="sss">
+  <section lang="tr" id="sss">
     <div class="bas">
       <div class="etiket">Sık sorulanlar</div>
       <h2>Aklınıza takılanlar.</h2>
